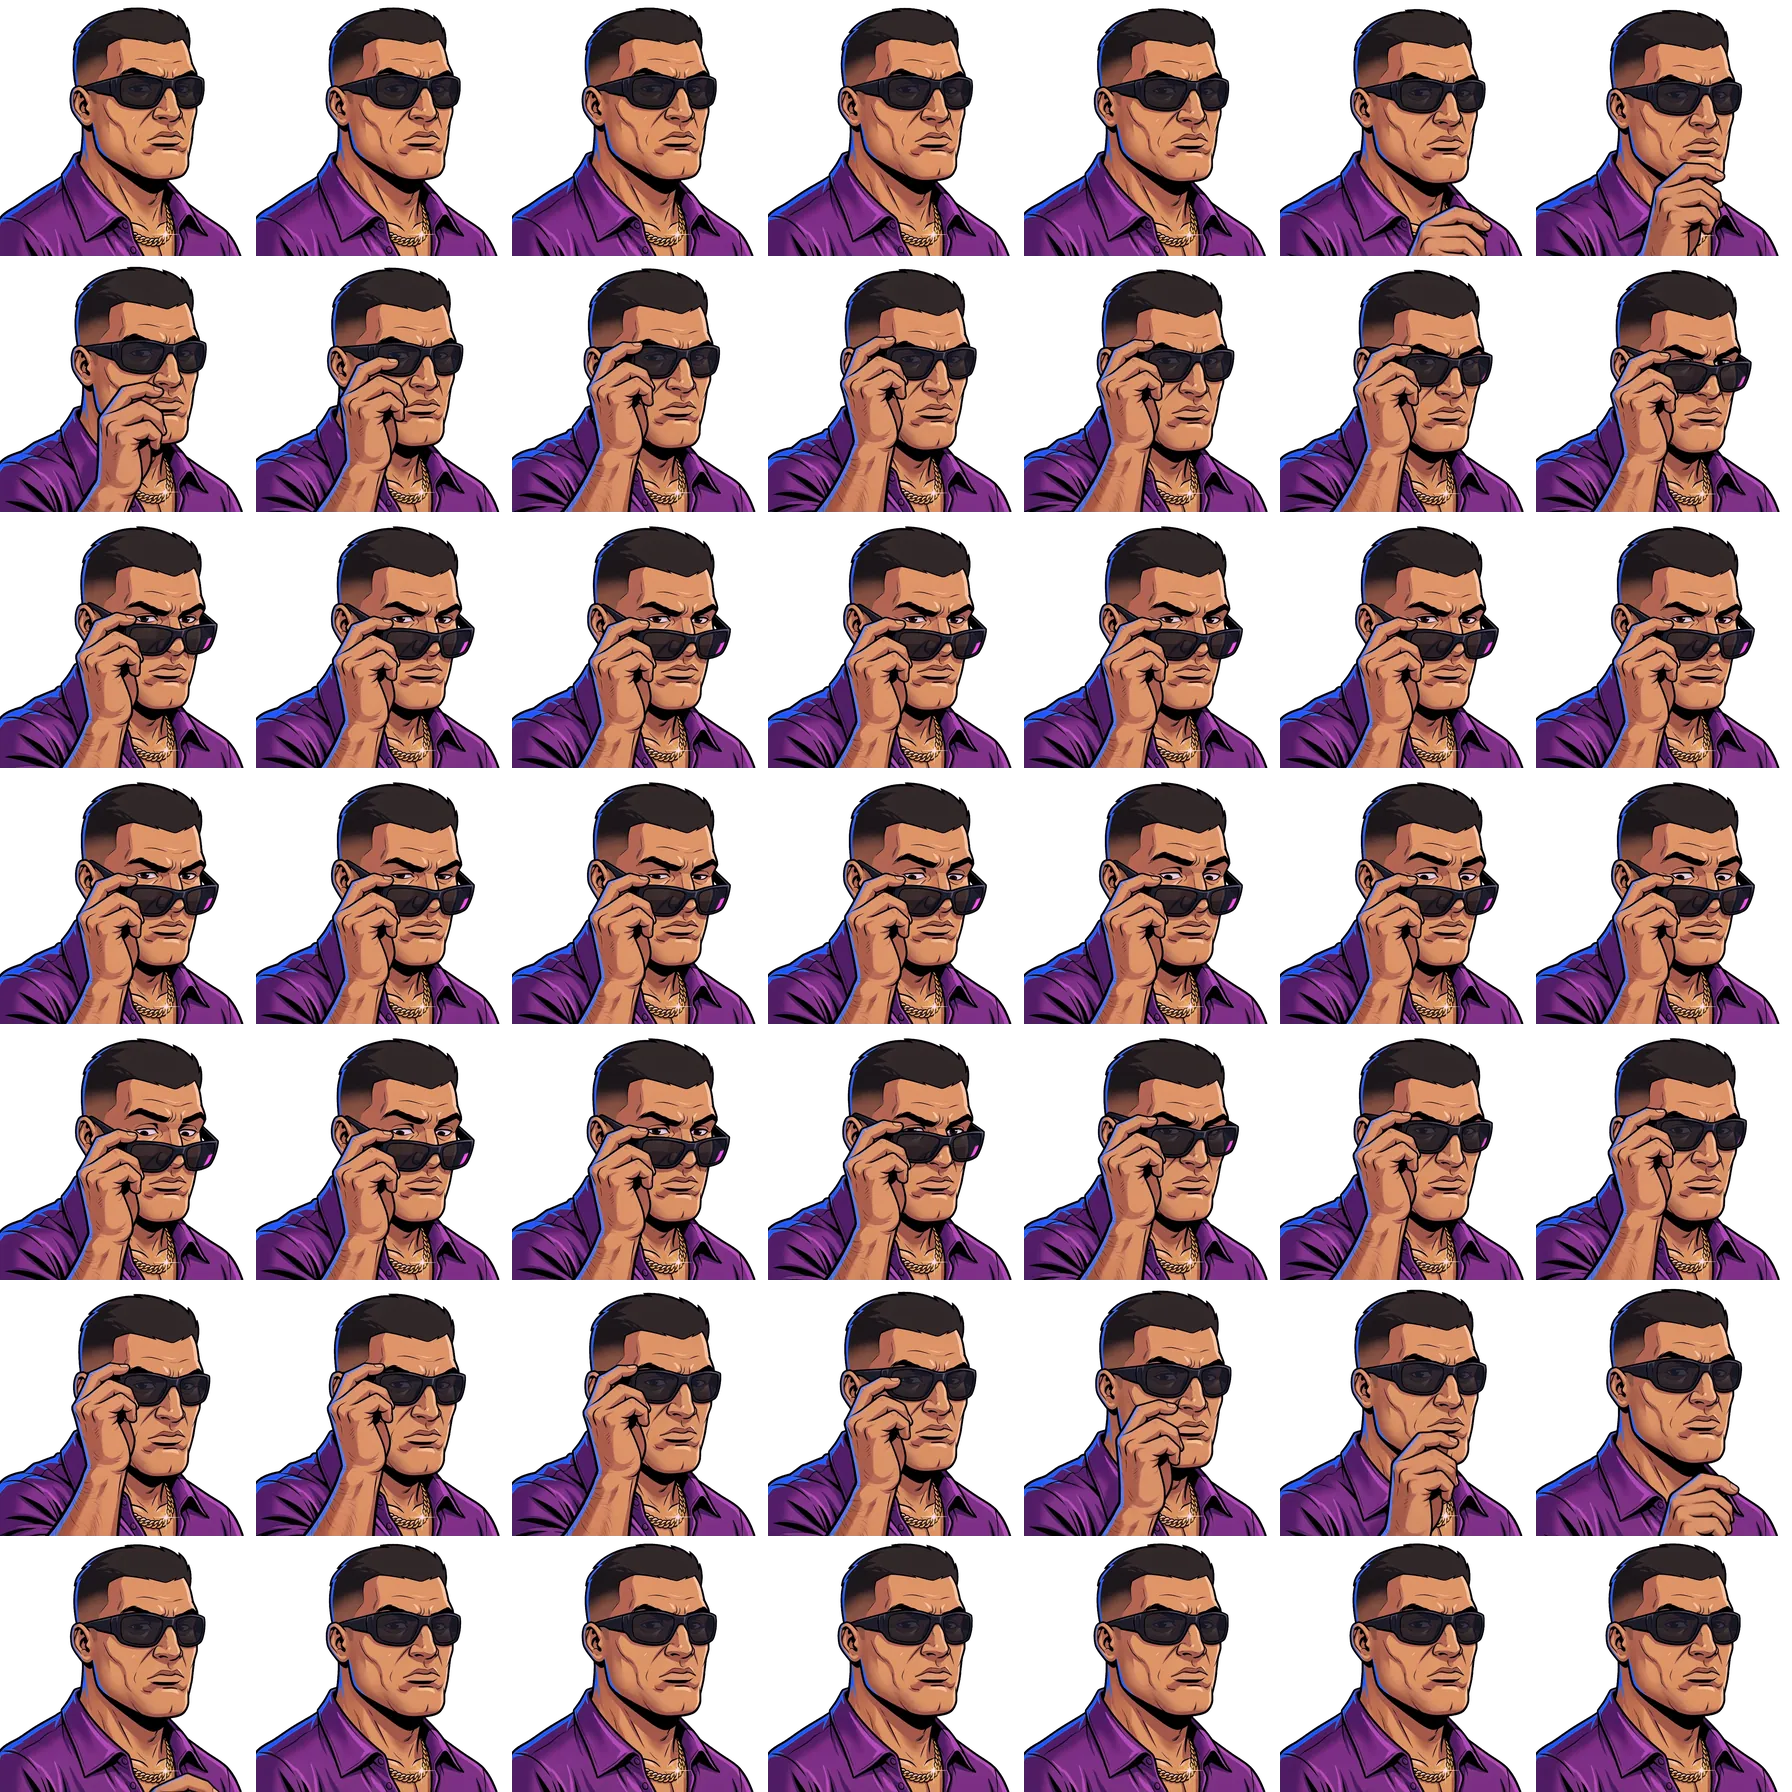
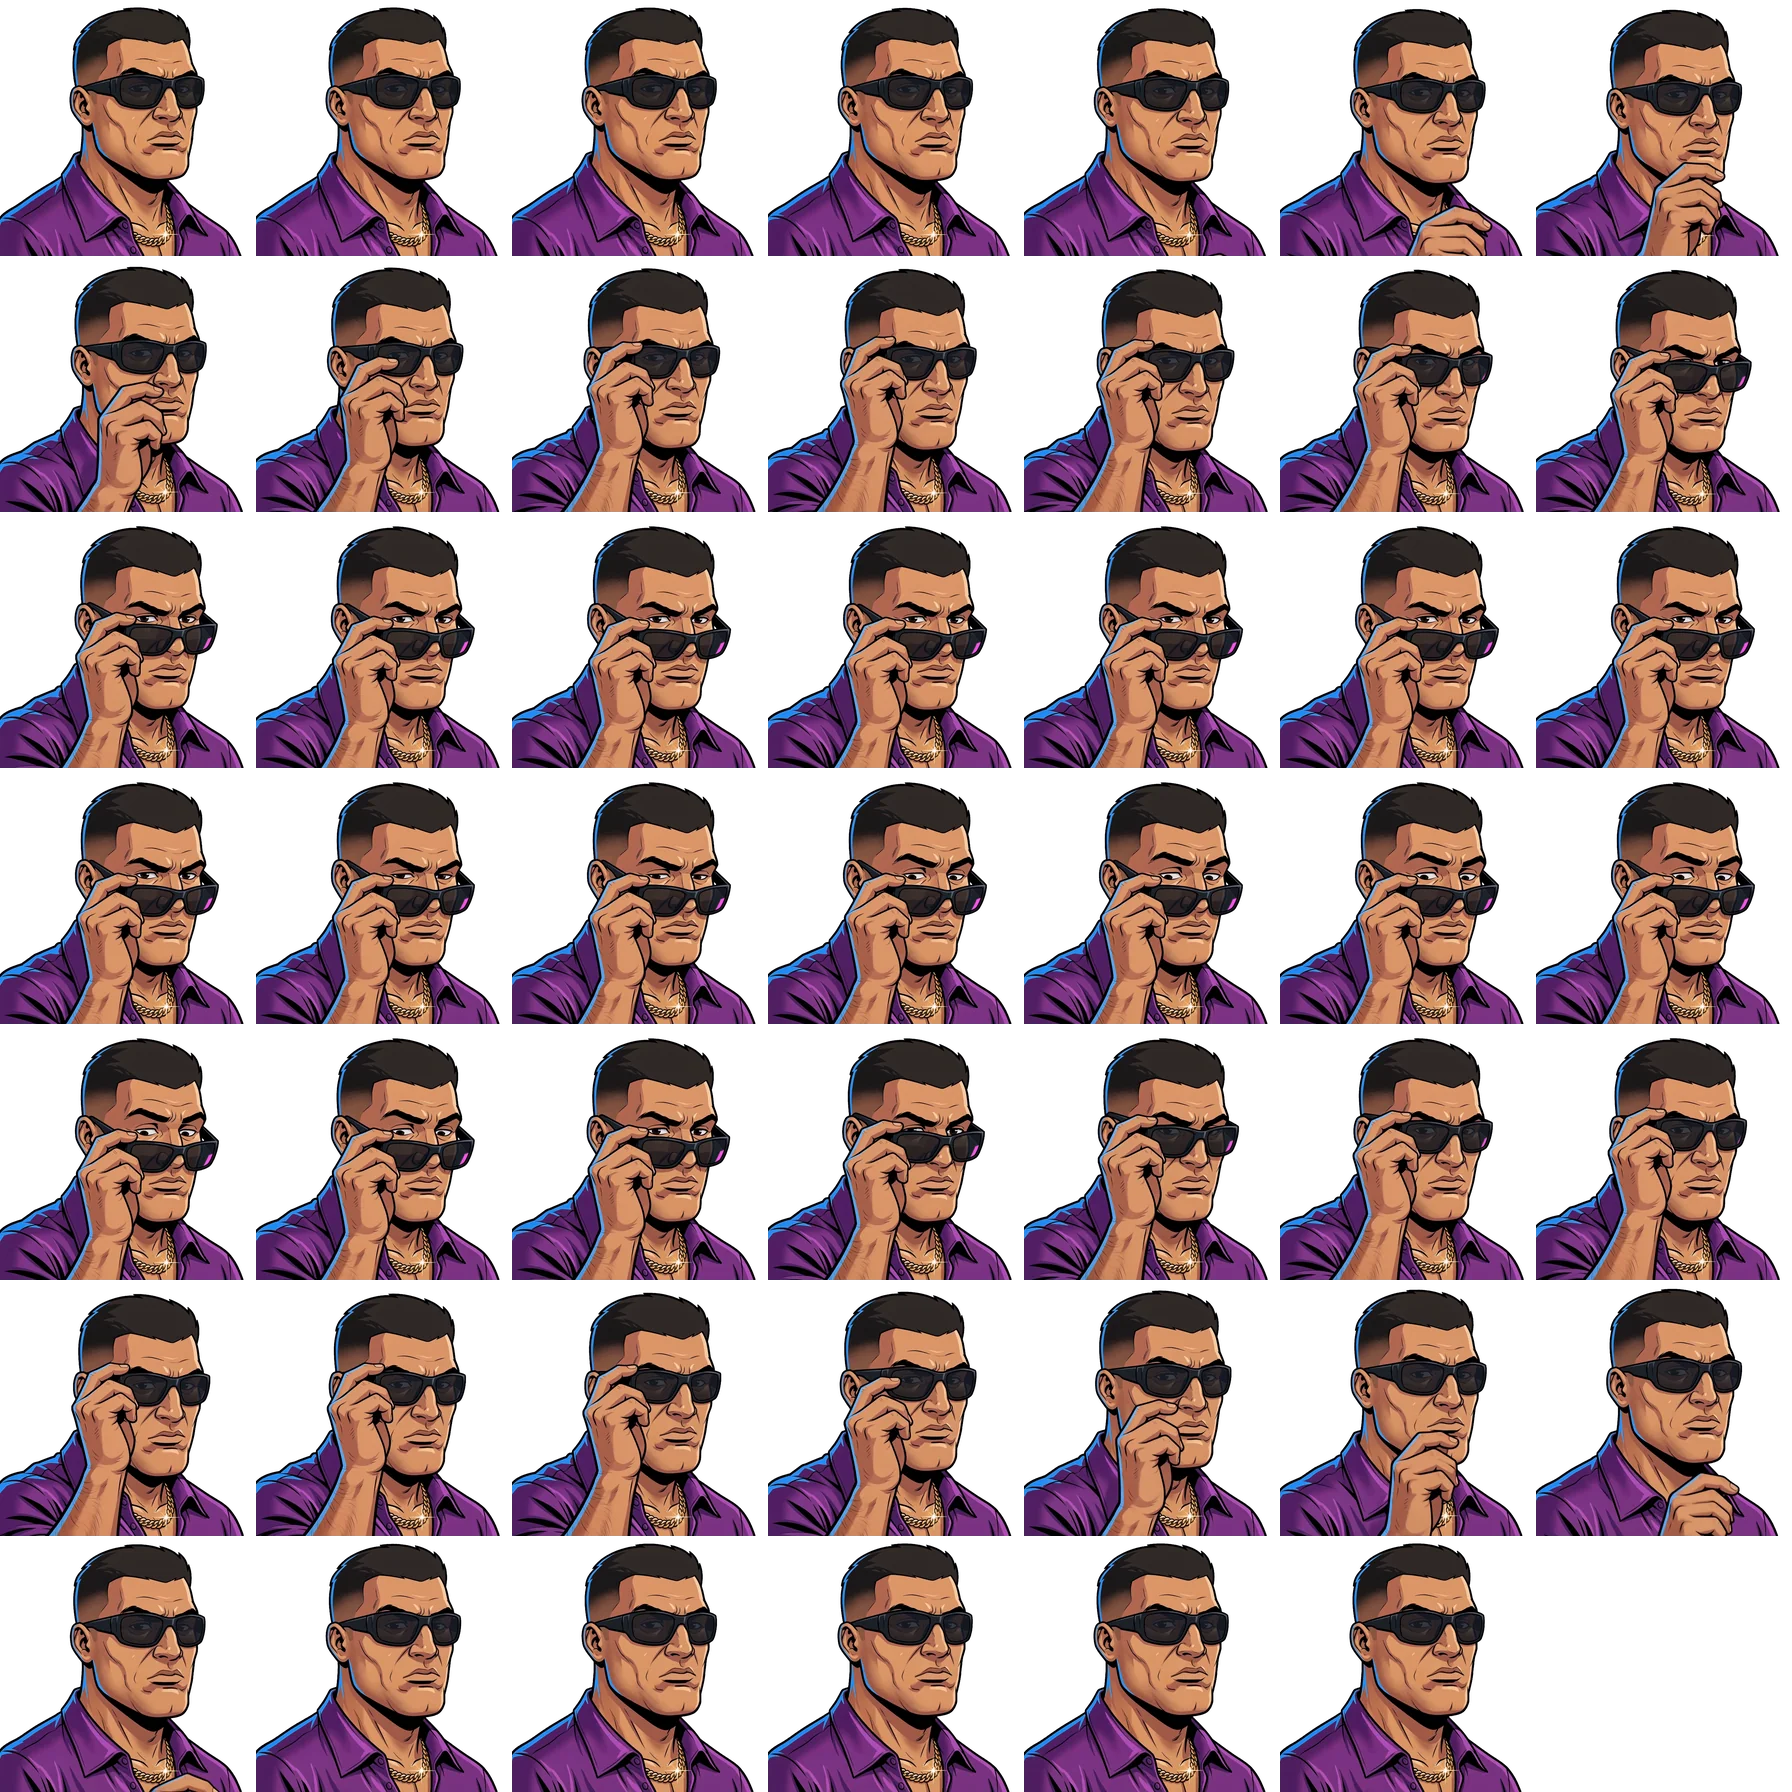
Color-matched win sheets + 1:1 stand-activation + 3sc max-win pattern (simul-mult ladder)
Art: all four win animations rebuilt from Noski's color-matched renders
(prem A gangster, prem B cigar, scatter BONUS disc, NEW wild money-case
burst — wild_win.webp, first wild win sheet). Chroma keys sampled per video
(0x1AEA32/0x2FF533/0x02DC06/0x00C600, tight 0.12-0.14), 256px frames,
layouts unchanged (7x7@12, scatter 8x10@15).

Transition ("1 zu 1 vom Stand aktivieren"): the sheet now SPAWNS on the
resting art's exact footprint and cross-fades over it (no hard swap, no
back-overshoot zoom-in), eases up to win size, and reverses the same way on
stop (settle onto the footprint while the art fades back in — no snap-back
zoom). Because the sheet rides `inner`, a mid-pulse 'featured' scatter blends
seamlessly into its BONUS win — near-miss tease -> scatter win is ONE
continuous motion (verified live: featured@scale-1.099 -> win sheet mid-
crossfade with inner blended to 1.0 on the same cell).

Math: 3-scatter bonus gets MAX WIN patterns via the SIMULTANEOUS-EXPANSION
ladder (custom rule simulExpandMultipliers {"3":2,"4":8}; per-spin contexts
only, never sticky): the 1-in-4096 four-tower alignment x8 with a premium
reel-1 window hits the 5000x cap (~1-in-15k fs3 rounds / 1-in-670k spins,
sim max 5163x = cap). x2-from-2-towers was rejected (k crashed to 0.87).
Wired through sim + mock settlement + display amounts (applySimulMultiplier
scales total AND combos). Re-certified 8M @ k=1.031 (~96 ±1.5 tail noise);
fs3 median 3.4x / p99 134x, sticky median 63x / p90 769x.

diff --git a/src/game/AnimatedSymbol.ts b/src/game/AnimatedSymbol.ts
@@ -231,29 +231,49 @@ export class AnimatedSymbol extends Container {
     if (this.winSheetSprite) return;
     const sheet = SYMBOL_WIN_SHEETS.get(this.symbolId);
     if (!sheet || sheet.frames.length === 0) return;
-    // Bigger than the resting art — the win animation pops OVER the cell
-    // (the lift keeps it above neighbours), with a quick back.out scale-in.
-    const size = Math.min(SYMBOL_WIDTH, SYMBOL_HEIGHT) * 1.22;
+    // 1:1 VOM STAND: the sheet SPAWNS on the resting art's exact footprint
+    // and cross-fades over it — no hard swap, no zoom-in pop. Because the
+    // sprite is a child of `inner`, it inherits whatever transform the
+    // previous state left (e.g. a mid-pulse 'featured' scatter during the
+    // near-miss tease), so tease → win reads as ONE continuous motion.
+    const cell = Math.min(SYMBOL_WIDTH, SYMBOL_HEIGHT);
+    const frameW = sheet.frames[0].width || 256;
+    const restScale = (cell * 0.94) / frameW;  // the static art's footprint
+    const popScale = (cell * 1.22) / frameW;   // the win presentation size
     const spr = new Sprite(sheet.frames[0]);
     spr.anchor.set(0.5);
-    const target = size / (sheet.frames[0].width || 256);
-    spr.scale.set(target * 0.78);
-    gsap.to(spr.scale, { x: target, y: target, duration: 0.28, ease: 'back.out(2.2)' });
+    spr.scale.set(restScale);
+    spr.alpha = 0;
     spr.eventMode = 'none';
     this.inner.addChild(spr);
     // Soft-edge mask: melts the square frame edges away so only the CHARACTER
     // pops — never a hard card. Parented to the sprite so it scales with it.
     const mask = new Sprite(getSoftEdgeMask());
     mask.anchor.set(0.5);
-    mask.width = (sheet.frames[0].width || 256);
+    mask.width = frameW;
     mask.height = (sheet.frames[0].height || 256);
     mask.eventMode = 'none';
     spr.addChild(mask);
     spr.mask = mask;
     this.preSheetIconVisible = this.iconSprite?.visible ?? false;
     this.preSheetShadowVisible = this.iconShadow?.visible ?? false;
-    if (this.iconSprite) this.iconSprite.visible = false;
-    if (this.iconShadow) this.iconShadow.visible = false;
+    // Cross-fade: the sheet fades IN on the same footprint while the static
+    // art fades OUT underneath, then the sheet eases up to the win size —
+    // smooth power curve, no back-overshoot zoom.
+    gsap.to(spr, { alpha: 1, duration: 0.12, ease: 'power1.out' });
+    for (const layer of [this.iconSprite, this.iconShadow]) {
+      if (!layer) continue;
+      gsap.killTweensOf(layer, 'alpha');
+      gsap.to(layer, {
+        alpha: 0, duration: 0.14, ease: 'power1.in',
+        onComplete: () => { layer.visible = false; layer.alpha = 1; },
+      });
+    }
+    gsap.to(spr.scale, { x: popScale, y: popScale, duration: 0.38, ease: 'power2.inOut', delay: 0.06 });
+    // Blend any inherited state transform (featured pulse scale/rotation/
+    // alpha) smoothly back to neutral instead of snapping.
+    gsap.to(this.inner.scale, { x: 1, y: 1, duration: 0.3, ease: 'power2.out' });
+    gsap.to(this.inner, { rotation: 0, alpha: 1, duration: 0.2, ease: 'power2.out' });
     this.winSheetSprite = spr;
     const proxy = { f: 0 };
     this.winSheetTween = gsap.to(proxy, {
@@ -271,15 +291,25 @@ export class AnimatedSymbol extends Container {
     if (!spr) return;
     this.winSheetSprite = null;
     gsap.killTweensOf(spr.scale);
-    // Clean handoff: the static art comes back UNDER the overlay, then the
-    // overlay shrinks back to symbol size while fading out — no hard snap
-    // from the zoomed animation to the resting art.
-    if (this.iconSprite) this.iconSprite.visible = this.preSheetIconVisible;
-    if (this.iconShadow) this.iconShadow.visible = this.preSheetShadowVisible;
+    gsap.killTweensOf(spr);
+    // The exact REVERSE of the intro: the sheet settles back down onto the
+    // static art's footprint while the art cross-fades back in underneath,
+    // then the sheet dissolves — one continuous motion, no snap-back zoom.
     const back = (Math.min(SYMBOL_WIDTH, SYMBOL_HEIGHT) * 0.94) / (spr.texture.width || 256);
-    gsap.to(spr.scale, { x: back, y: back, duration: 0.22, ease: 'power2.inOut' });
+    const restore: Array<[Sprite | null, boolean]> = [
+      [this.iconSprite, this.preSheetIconVisible],
+      [this.iconShadow, this.preSheetShadowVisible],
+    ];
+    for (const [layer, wasVisible] of restore) {
+      if (!layer || !wasVisible) continue;
+      gsap.killTweensOf(layer, 'alpha');
+      layer.visible = true;
+      layer.alpha = 0;
+      gsap.to(layer, { alpha: 1, duration: 0.24, ease: 'power1.out', delay: 0.08 });
+    }
+    gsap.to(spr.scale, { x: back, y: back, duration: 0.26, ease: 'power2.inOut' });
     gsap.to(spr, {
-      alpha: 0, duration: 0.24, ease: 'power1.in',
+      alpha: 0, duration: 0.2, ease: 'power1.in', delay: 0.12,
       onComplete: () => {
         spr.parent?.removeChild(spr);
         try { spr.destroy({ children: true }); } catch { /* torn down */ }

diff --git a/src/game/PixiApp.ts b/src/game/PixiApp.ts
@@ -1342,7 +1342,10 @@ export class PixiApp {
         // pays its natural connections, so the evaluation always runs.
         const board = this.reelSet.getVisibleBoard();
         for (const reel of expanded) for (let row = 0; row < this.grid.visibleRows; row++) board[row][reel] = 0; // WILD
-        const winResult = evaluateWins(board, outcome.wager ?? 1n, this.config);
+        const winResult = this.applySimulMultiplier(
+          evaluateWins(board, outcome.wager ?? 1n, this.config),
+          stickyMode ? 0 : expanded.length,
+        );
         if (winResult.totalWin > 0n) {
           const spinOutcome: SpinOutcome = {
             stops: this.config.reelLengths.map(() => 0), board,
@@ -1422,6 +1425,23 @@ export class PixiApp {
    *  turn), then light all winners and play the grand-total coin ceremony.
    *  Single win / turbo / reduced-motion skip straight to the total. Awaited so
    *  the spin holds until it finishes. */
+  /** SIMULTANEOUS-EXPANSION MULTIPLIERS (per-spin expansion contexts: the
+   *  3-scatter bonus + the showcase; never sticky rounds): n reels expanding
+   *  in the SAME spin multiply the spin's win per the custom table (late
+   *  ladder — 3 towers x2, 4 towers x8). The 4-tower simultaneous spin is the
+   *  3sc bonus' MAX WIN pattern. Scales the total AND each combo so the
+   *  presented +amounts match the settlement rule. */
+  private applySimulMultiplier(winResult: WinResult, towers: number): WinResult {
+    const table = (this.config as { simulExpandMultipliers?: Record<string, number> }).simulExpandMultipliers ?? {};
+    const mult = BigInt(table[String(towers)] ?? 1);
+    if (mult <= 1n) return winResult;
+    return {
+      ...winResult,
+      totalWin: winResult.totalWin * mult,
+      combinations: winResult.combinations.map(c => ({ ...c, winAmount: c.winAmount * mult })),
+    };
+  }
+
   private async playWinSequence(
     outcome: SpinOutcome,
     symbol: string,
@@ -2124,7 +2144,7 @@ export class PixiApp {
       // Effective board: the expanded reels are ENTIRELY wild.
       const board = this.reelSet.getVisibleBoard();
       for (const reel of chosen) for (let row = 0; row < this.grid.visibleRows; row++) board[row][reel] = 0; // WILD
-      const winResult = evaluateWins(board, wager, this.config);
+      const winResult = this.applySimulMultiplier(evaluateWins(board, wager, this.config), chosen.length);
       if (winResult.totalWin <= 0n) return; // honest: dead-paytable connections stay silent
       const outcome: SpinOutcome = {
         stops: this.config.reelLengths.map(() => 0),

diff --git a/src/dev/mockHost.ts b/src/dev/mockHost.ts
@@ -193,6 +193,9 @@ export class MockHost {
         );
         const fsStops = this.deriveStops(seed);
         const fsBoard = this.buildBoardCfg(fsStops);
+        // Reels expanding in THIS spin (per-spin mode) — drives the
+        // simultaneous-expansion multiplier below.
+        let simulTowers = 0;
         // Vice-Heat style FS: wild-carrying reels become FULLY WILD before
         // ways evaluation (settlement matches the displayed expansion).
         if (expandFS) {
@@ -211,12 +214,19 @@ export class MockHost {
             for (let reel = 0; reel < fsBoard[0].length; reel++) {
               if (fsBoard.some(r => r[reel] === 0)) {
                 for (let row = 0; row < fsBoard.length; row++) fsBoard[row][reel] = 0;
+                simulTowers++;
               }
             }
           }
         }
         const { totalWin: rawFsWin, scatterCount: fsScatter } = evaluateWins(fsBoard, bet, this.config);
-        const fsWin = rawFsWin * BigInt(this.config.freeSpinsMultiplier);
+        // SIMULTANEOUS-EXPANSION MULTIPLIERS (3-scatter rounds only): n reels
+        // expanding in the SAME spin multiply the spin's win per the custom
+        // table (late ladder: 3 towers x2, 4 towers x8) — the four-tower
+        // simultaneous spin is the 3sc bonus' max-win pattern.
+        const simulTable = (this.config as { simulExpandMultipliers?: Record<string, number> }).simulExpandMultipliers ?? {};
+        const simulMult = BigInt(simulTable[String(simulTowers)] ?? 1);
+        const fsWin = rawFsWin * simulMult * BigInt(this.config.freeSpinsMultiplier);
         totalWin += fsWin;
         if (totalWin > maxWin) totalWin = maxWin;
         // Retrigger awards the custom `retriggerSpins` (small, the tight

diff --git a/src/App.tsx b/src/App.tsx
@@ -87,9 +87,11 @@ export function App() {
     // VICE HEAT logo above the grid (replaces the text title).
     void pixiAppRef.setTitleImage(`${B}logo.webp`);
     // Premium WIN animations: looped spritesheets on connection (7×7 = 48
-    // frames @ 12fps each). HIGH_A(2) = shades guy, HIGH_B(3) = cigar boss.
+    // frames @ 12fps each), color-matched to the static art. HIGH_A(2) =
+    // shades guy, HIGH_B(3) = cigar boss, WILD(0) = money case bursting open.
     void pixiAppRef.setSymbolWinSheet(2, `${B}prem_a_win.webp`, 7, 7, 48, 12);
     void pixiAppRef.setSymbolWinSheet(3, `${B}prem_b_win.webp`, 7, 7, 48, 12);
+    void pixiAppRef.setSymbolWinSheet(0, `${B}wild_win.webp`, 7, 7, 48, 12);
     // Scatter(1) BONUS animation — plays on the landed scatters at the FS
     // trigger (the iris cuts in just before it ends). 8×10 = 74 frames @ 15fps.
     void pixiAppRef.setSymbolWinSheet(1, `${B}scatterwin.webp`, 8, 10, 74, 15);

diff --git a/src/config/mathProfiles.ts b/src/config/mathProfiles.ts
@@ -57,6 +57,10 @@ function fromManifest(m: Record<string, unknown>): GameConfig {
     // Small fixed retrigger award (custom rule) — undefined keeps the
     // template's re-award-freeSpinsCount behaviour.
     retriggerSpins: (m['custom'] as { retriggerSpins?: number } | undefined)?.retriggerSpins,
+    // Simultaneous-expansion multiplier table (3sc bonus + hot spins):
+    // n reels expanding in ONE spin multiply the spin win per this map
+    // (late ladder, e.g. {"3": 2, "4": 8}).
+    simulExpandMultipliers: (m['custom'] as { simulExpandMultipliers?: Record<string, number> } | undefined)?.simulExpandMultipliers,
   } as unknown as GameConfig;
 }
 

diff --git a/custom-math/simulate_vice_heat.py b/custom-math/simulate_vice_heat.py
@@ -77,6 +77,13 @@ MAX_WIN_X = 5000
 # (leftmost joins first on ties). Default = ALL wild-capable reels (4) — with
 # RARE wilds the full board is the jackpot event, not the norm.
 STICKY_CAP = int(os.environ.get('VH_STICKY_CAP', '4'))
+# SIMULTANEOUS-EXPANSION MULTIPLIERS (per-spin expansion contexts only: the
+# 3-scatter bonus + hot spins; NEVER sticky rounds): n reels expanding in the
+# SAME spin multiply that spin's win per this table. Deliberately LATE ladder
+# (2 towers pay plain — too common to multiply): the 1-in-4096 four-tower
+# alignment x8 with a premium reel-1 window IS the 3-scatter bonus' MAX WIN
+# pattern (much rarer than the 4-scatter sticky route).
+SIMUL_MULTS = {3: 2, 4: 8}
 
 # ── precompute visible windows per reel/stop: (counts per symbol incl. wild-as-any, wilds, scatters)
 def precompute(strips):
@@ -145,7 +152,9 @@ def simulate(n, pays, scatter_pay, seed=42):
     for _ in range(n):
         stops = [rng.randrange(lens[r]) for r in range(REELS)]
         hot = rng.randrange(HOT_CHANCE) == 0
-        win, sc, _ = eval_spin(stops, hot, empty, pays, scatter_pay)
+        win, sc, full = eval_spin(stops, hot, empty, pays, scatter_pay)
+        if hot:
+            win *= SIMUL_MULTS.get(len(full), 1)
         session = win
         if hot: hot_total += win
         else: base_total += win
@@ -167,7 +176,8 @@ def simulate(n, pays, scatter_pay, seed=42):
                             sticky.add(i)
                     w2, sc2, _ = eval_spin(st, False, sticky, pays, scatter_pay)
                 else:
-                    w2, sc2, _ = eval_spin(st, True, sticky, pays, scatter_pay)
+                    w2, sc2, full = eval_spin(st, True, sticky, pays, scatter_pay)
+                    w2 *= SIMUL_MULTS.get(len(full), 1)
                 round_win += w2
                 session += w2
                 # Retrigger awards retriggerSpins (custom rule), bounded by
@@ -198,6 +208,8 @@ def simulate(n, pays, scatter_pay, seed=42):
                        'p99': pct(fs4_rounds, 0.99) / X, 'max': (fs4_rounds[-1] / X) if fs4_rounds else 0},
         'fs4_ge_800x_pct': 100 * sum(1 for w in fs4_rounds if w >= 800 * X) / max(1, len(fs4_rounds)),
         'fs4_ge_maxwin_pct': 100 * sum(1 for w in fs4_rounds if w >= MAX_WIN_X * X) / max(1, len(fs4_rounds)),
+        'fs3_ge_800x_pct': 100 * sum(1 for w in fs3_rounds if w >= 800 * X) / max(1, len(fs3_rounds)),
+        'fs3_ge_maxwin_pct': 100 * sum(1 for w in fs3_rounds if w >= MAX_WIN_X * X) / max(1, len(fs3_rounds)),
         'base_pct': base_total / (n * X) * 100,
         'hot_pct': hot_total / (n * X) * 100,
         'fs3_pct': fs3_total / (n * X) * 100,
@@ -242,6 +254,7 @@ if __name__ == '__main__':
             'stickyExpandingFrom4Scatters': True,
             'stickyTowerCap': STICKY_CAP,
             'retriggerSpins': FS_RETRIG,
+            'simulExpandMultipliers': {str(k): v for k, v in SIMUL_MULTS.items()},
             'hotSpinChance1In': HOT_CHANCE,
             'hotSpinExpandsWilds': True,
             'notes': 'Wild expands to full reel BEFORE ways evaluation in FS and hot spins. '

diff --git a/custom-math/README.md b/custom-math/README.md
@@ -14,25 +14,28 @@
 - **TIERED FREE SPINS** (8 spins; retrigger awards only **+5** via the custom
   `retriggerSpins` rule; TOTAL cap **13** = at most ONE retrigger — max win
   must come from the setup, never from grinding endless spins):
-  - **3 scatters (1-in-44):** per-spin expanding wilds. Median round **3.9×**,
-    p90 20×, p99 90×, max seen 774×.
+  - **3 scatters (1-in-44):** per-spin expanding wilds + the
+    **SIMULTANEOUS-EXPANSION LADDER**: 3 towers in ONE spin ×2, all 4 towers
+    (1-in-4096 spins) ×8 — the ×8 four-tower alignment with a premium reel-1
+    window IS this bonus' MAX WIN pattern (~1-in-15k rounds hit the 5000× cap,
+    max seen 5163×). Median round **3.4×**, p90 18×, p99 134×.
   - **4+ scatters (1-in-520):** **STICKY expanding wilds** — every wild-landing
-    reel becomes a permanent full-wild tower (up to ALL 4). Median round
-    **74×**, p90 **904×**, p99 2248×, max seen **4135×** — an early
-    full-tower board with premium reel-1 windows stacks toward the 5000× cap
-    within its own round. 11.4% of sticky rounds pay ≥ 800×.
+    reel becomes a permanent full-wild tower (up to ALL 4; no simul-ladder).
+    Median round **63×**, p90 **769×**, p99 1912×, max seen **3517×**; 9.6%
+    of sticky rounds pay ≥ 800×.
   - Fully wild reels contribute **no scatters** (retriggers fade as towers stand).
 - **HOT SPIN (base game):** 1-in-40 base spins play in per-spin expansion mode.
 - Session cap 5000×, min wager 10000 — template invariants unchanged.
 
-## The numbers (8,000,000-spin certification, k = 1.212)
+## The numbers (8,000,000-spin certification, k = 1.031)
 
 | Metric | Value |
 |---|---|
-| RTP | **95.78%** (alt-seed 1M: 94.5 — the fs4 tail carries ~53% of RTP, so MC noise is ~±1%; final gate runs dev-side) |
+| RTP | **97.0%** point / alt-seed 94.2 — both tails (sticky + simul-mult) put MC noise at ~±1.5%; true value ≈ 96, final gate runs dev-side |
 | Hit frequency | 82.7% |
-| RTP split | base 18.6% · hot 2.9% · fs3 21.8% · **fs4 52.6%** |
-| Volatility | very high — most sessions bleed slowly, the sticky bonus is the nuke |
+| RTP split | base 15.8% · hot 4.4% · fs3 32.1% · **fs4 44.7%** |
+| Max win routes | 3sc: 4-tower ×8 alignment (~1-in-670k spins) · 4sc: early full-tower sticky round |
+| Volatility | very high — most sessions bleed slowly; two distinct nuke patterns |
 
 **Distribution is the product:** "mal nur 10× oder mal 800× straight" — the
 fs4 spread (74× median vs 909× p90) IS the design goal, not an accident.
@@ -47,14 +50,15 @@ will need a larger N or seed-averaging for this profile.
 
 - `vice_heat_expanding.json` — the manifest, standard shape + `custom` block
   (`expandingWildsInFreeSpins`, `stickyExpandingFrom4Scatters` +
-  `stickyTowerCap: 4`, `retriggerSpins: 5`, `hotSpinChance1In: 40`).
+  `stickyTowerCap: 4`, `retriggerSpins: 5`,
+  `simulExpandMultipliers: {"3": 2, "4": 8}`, `hotSpinChance1In: 40`).
 - `analytic_vice_heat.py` — exact RTP derivation of the per-spin branch.
 - `simulate_vice_heat.py` — full MC simulator incl. tiered sticky rounds,
   round-win distributions, retriggers + caps. `VH_ROWS`/`VH_STICKY_CAP`/`VH_K`.
 
 ## What the dev needs to add (contract side)
 
-Four settlement rules beyond the current template (all deterministic from the
+Five settlement rules beyond the current template (all deterministic from the
 spin randomness, no new RNG):
 1. **FS expansion:** in FS resolution, reels containing ≥1 wild evaluate with
    count = ROWS for every symbol (full-wild reel). Full-wild reels contribute
@@ -67,5 +71,8 @@ spin randomness, no new RNG):
    apply the per-spin expansion rule to a base spin.
 4. **Retrigger:** award the custom `retriggerSpins` (5) instead of the
    template's re-award-freeSpinsCount, bounded by freeSpinsCap = 13.
+5. **Simul-expansion ladder** (per-spin expansion contexts only, never
+   sticky): n reels expanding in the SAME spin multiply that spin's win per
+   `simulExpandMultipliers` ({"3": 2, "4": 8}).
 Everything else (strips, paytable, ways evaluation, caps) is the unchanged
 template pipeline.